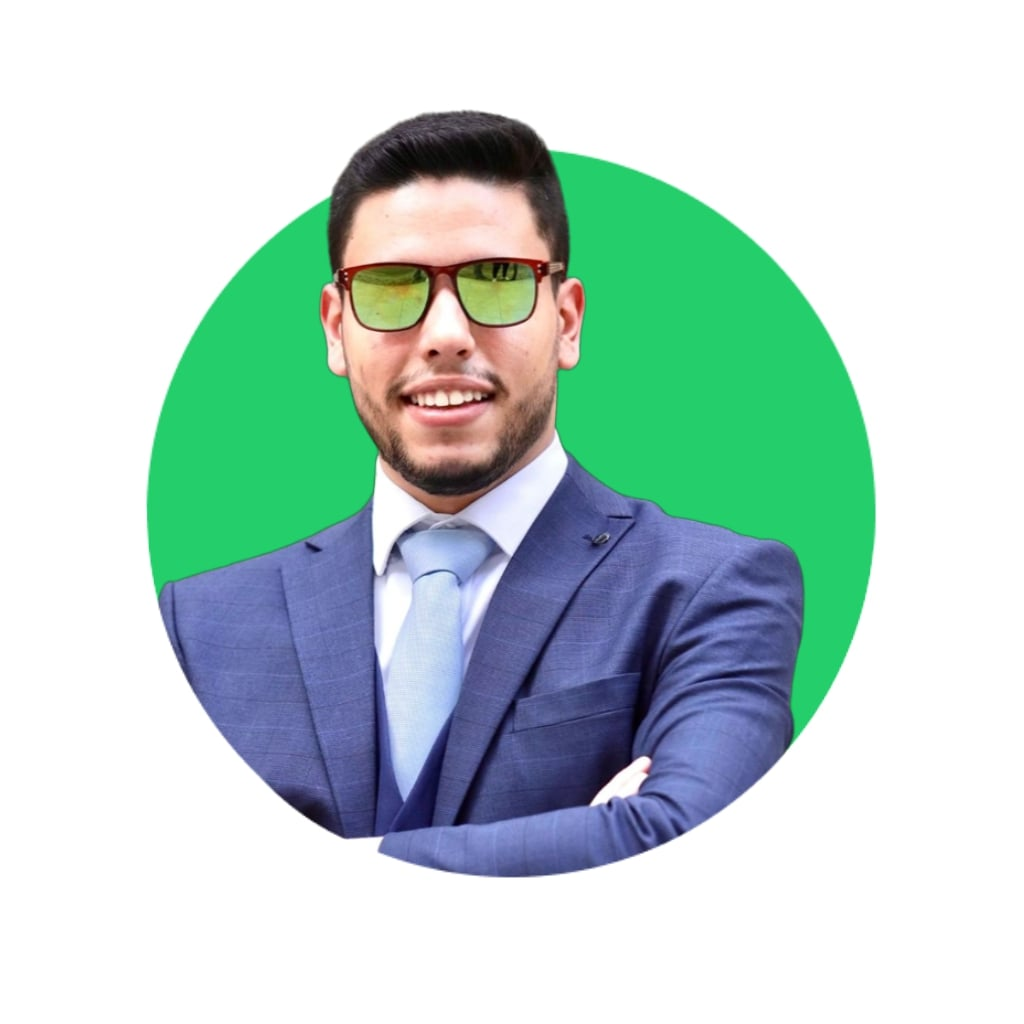
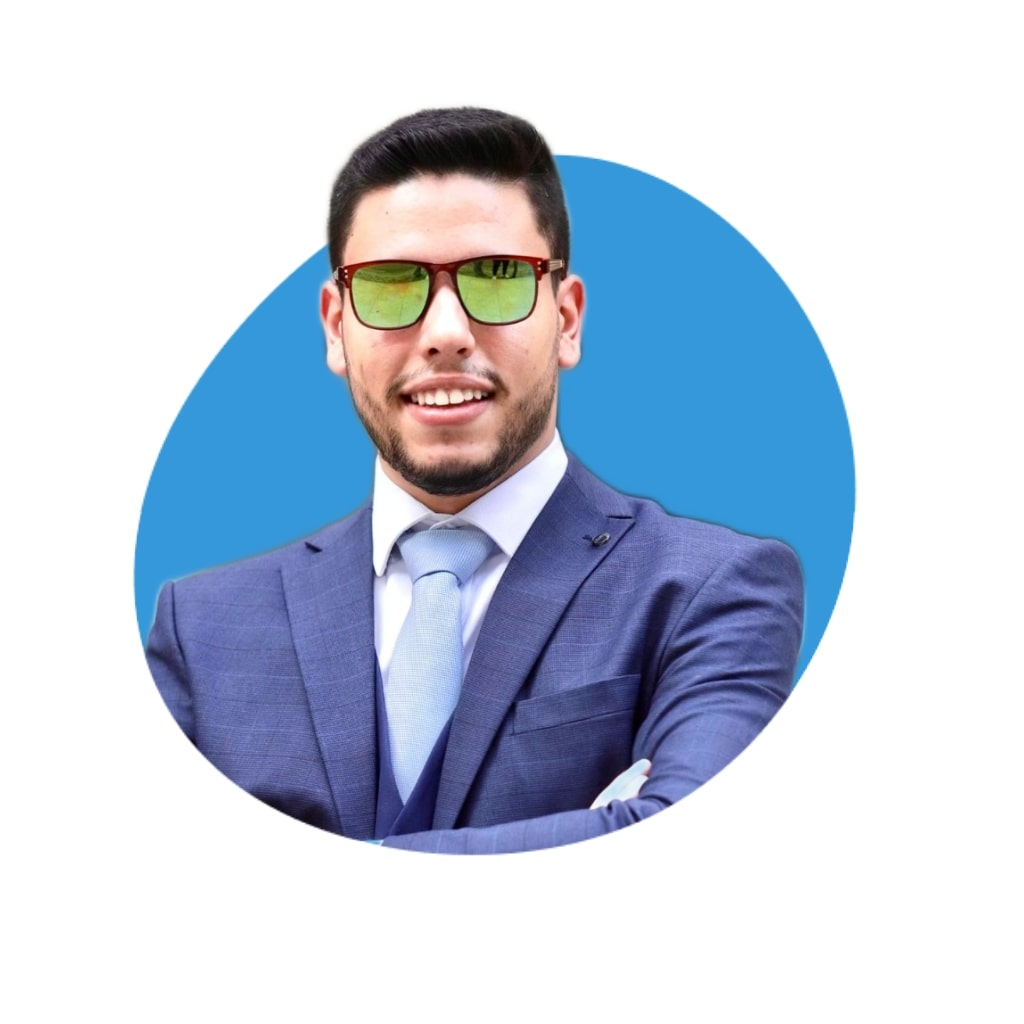
Update Assets and Styles for Consistent Branding

Changed region(s): [[0.125, 0.0938, 0.875, 0.875], [0.375, 0.75, 0.4062, 0.7812]]

diff --git a/src/components/Project/Project.tsx b/src/components/Project/Project.tsx
@@ -14,7 +14,7 @@ export function Project() {
         <ScrollAnimation animateIn="flipInX">
           <div className="project">
             <header>
-              <svg width="50" xmlns="http://www.w3.org/2000/svg" role="img" viewBox="0 0 24 24" fill="none" stroke="#23ce6b" strokeWidth="1" strokeLinecap="round" strokeLinejoin="round"> <title>Folder</title> <path d="M22 19a2 2 0 0 1-2 2H4a2 2 0 0 1-2-2V5a2 2 0 0 1 2-2h5l2 3h9a2 2 0 0 1 2 2z"></path> </svg>
+              <svg width="50" xmlns="http://www.w3.org/2000/svg" role="img" viewBox="0 0 24 24" fill="none" stroke="#3498db" strokeWidth="1" strokeLinecap="round" strokeLinejoin="round"> <title>Folder</title> <path d="M22 19a2 2 0 0 1-2 2H4a2 2 0 0 1-2-2V5a2 2 0 0 1 2-2h5l2 3h9a2 2 0 0 1 2 2z"></path> </svg>
               <div className="project-links">
                 <a href="https://github.com/CodeFaris/Serverless-Voting-Application" target="_blank" rel="noreferrer">
                   <img src={githubIcon} alt="Visit site" /></a>
@@ -33,7 +33,7 @@ export function Project() {
         <ScrollAnimation animateIn="flipInX">
           <div className="project">
             <header>
-              <svg width="50" xmlns="http://www.w3.org/2000/svg" role="img" viewBox="0 0 24 24" fill="none" stroke="#23ce6b " strokeWidth="1" strokeLinecap="round" strokeLinejoin="round"><title>Folder</title> <path d="M22 19a2 2 0 0 1-2 2H4a2 2 0 0 1-2-2V5a2 2 0 0 1 2-2h5l2 3h9a2 2 0 0 1 2 2z"></path> </svg>
+              <svg width="50" xmlns="http://www.w3.org/2000/svg" role="img" viewBox="0 0 24 24" fill="none" stroke="#3498db " strokeWidth="1" strokeLinecap="round" strokeLinejoin="round"><title>Folder</title> <path d="M22 19a2 2 0 0 1-2 2H4a2 2 0 0 1-2-2V5a2 2 0 0 1 2-2h5l2 3h9a2 2 0 0 1 2 2z"></path> </svg>
               <div className="project-links">
                 <a href="https://github.com/CodeFaris/AI-Chatbot-Assistant" target="_blank" rel="noreferrer">
                   <img src={githubIcon} alt="Visit site" /> </a>
@@ -60,7 +60,7 @@ export function Project() {
         <ScrollAnimation animateIn="flipInX">
           <div className="project">
             <header>
-              <svg width="50" xmlns="http://www.w3.org/2000/svg" role="img" viewBox="0 0 24 24" fill="none" stroke="#23ce6b" strokeWidth="1" strokeLinecap="round" strokeLinejoin="round">
+              <svg width="50" xmlns="http://www.w3.org/2000/svg" role="img" viewBox="0 0 24 24" fill="none" stroke="#3498db" strokeWidth="1" strokeLinecap="round" strokeLinejoin="round">
                 <title>Folder</title>
                 <path d="M22 19a2 2 0 0 1-2 2H4a2 2 0 0 1-2-2V5a2 2 0 0 1 2-2h5l2 3h9a2 2 0 0 1 2 2z"></path>
               </svg>
@@ -92,7 +92,7 @@ export function Project() {
         <ScrollAnimation animateIn="flipInX">
           <div className="project">
             <header>
-              <svg width="50" xmlns="http://www.w3.org/2000/svg" role="img" viewBox="0 0 24 24" fill="none" stroke="#23ce6b " stroke-width="1" stroke-linecap="round" stroke-linejoin="round" ><title>Folder</title><path d="M22 19a2 2 0 0 1-2 2H4a2 2 0 0 1-2-2V5a2 2 0 0 1 2-2h5l2 3h9a2 2 0 0 1 2 2z"></path></svg>
+              <svg width="50" xmlns="http://www.w3.org/2000/svg" role="img" viewBox="0 0 24 24" fill="none" stroke="#3498db " stroke-width="1" stroke-linecap="round" stroke-linejoin="round" ><title>Folder</title><path d="M22 19a2 2 0 0 1-2 2H4a2 2 0 0 1-2-2V5a2 2 0 0 1 2-2h5l2 3h9a2 2 0 0 1 2 2z"></path></svg>
               <div className="project-links">
                 <a href="https://github.com/CodeFaris/MediBook-Medical-Appointment-Scheduler-with-Health-History" target="_blank" rel="noreferrer">
                   <img src={githubIcon} alt="Visit site" />
@@ -120,7 +120,7 @@ export function Project() {
         <ScrollAnimation animateIn="flipInX">
           <div className="project">
             <header>
-              <svg width="50" xmlns="http://www.w3.org/2000/svg" role="img" viewBox="0 0 24 24" fill="none" stroke="#23ce6b" strokeWidth="1" strokeLinecap="round" strokeLinejoin="round">
+              <svg width="50" xmlns="http://www.w3.org/2000/svg" role="img" viewBox="0 0 24 24" fill="none" stroke="#3498db" strokeWidth="1" strokeLinecap="round" strokeLinejoin="round">
                 <title>Code</title>
                 <path d="M22 19a2 2 0 0 1-2 2H4a2 2 0 0 1-2-2V5a2 2 0 0 1 2-2h5l2 3h9a2 2 0 0 1 2 2z"></path>
               </svg>
@@ -150,7 +150,7 @@ export function Project() {
         <ScrollAnimation animateIn="flipInX">
           <div className="project">
             <header>
-              <svg width="50" xmlns="http://www.w3.org/2000/svg" role="img" viewBox="0 0 24 24" fill="none" stroke="#23ce6b " stroke-width="1" stroke-linecap="round" stroke-linejoin="round" ><title>Folder</title><path d="M22 19a2 2 0 0 1-2 2H4a2 2 0 0 1-2-2V5a2 2 0 0 1 2-2h5l2 3h9a2 2 0 0 1 2 2z"></path></svg>
+              <svg width="50" xmlns="http://www.w3.org/2000/svg" role="img" viewBox="0 0 24 24" fill="none" stroke="#3498db " stroke-width="1" stroke-linecap="round" stroke-linejoin="round" ><title>Folder</title><path d="M22 19a2 2 0 0 1-2 2H4a2 2 0 0 1-2-2V5a2 2 0 0 1 2-2h5l2 3h9a2 2 0 0 1 2 2z"></path></svg>
               <div className="project-links">
                 <a href="https://velocityai.FarisAljohari.com/" target="_blank" rel="noreferrer">
                   <img src={externalLink} alt="Visit site" />
@@ -177,7 +177,7 @@ export function Project() {
         {/* <ScrollAnimation animateIn="flipInX">
           <div className="project">
             <header>
-              <svg width="50" xmlns="http://www.w3.org/2000/svg" role="img" viewBox="0 0 24 24" fill="none" stroke="#23ce6b " stroke-width="1" stroke-linecap="round" stroke-linejoin="round" ><title>Folder</title><path d="M22 19a2 2 0 0 1-2 2H4a2 2 0 0 1-2-2V5a2 2 0 0 1 2-2h5l2 3h9a2 2 0 0 1 2 2z"></path></svg>
+              <svg width="50" xmlns="http://www.w3.org/2000/svg" role="img" viewBox="0 0 24 24" fill="none" stroke="#3498db " stroke-width="1" stroke-linecap="round" stroke-linejoin="round" ><title>Folder</title><path d="M22 19a2 2 0 0 1-2 2H4a2 2 0 0 1-2-2V5a2 2 0 0 1 2-2h5l2 3h9a2 2 0 0 1 2 2z"></path></svg>
               <div className="project-links">
                 <a href="https://justmedicalbooks.com/" target="_blank" rel="noreferrer">
                   <img src={externalLink} alt="Visit site" />
@@ -202,7 +202,7 @@ export function Project() {
         {/* <ScrollAnimation animateIn="flipInX">
           <div className="project">
             <header>
-              <svg width="50" xmlns="http://www.w3.org/2000/svg" role="img" viewBox="0 0 24 24" fill="none" stroke="#23ce6b " stroke-width="1" stroke-linecap="round" stroke-linejoin="round" ><title>Folder</title><path d="M22 19a2 2 0 0 1-2 2H4a2 2 0 0 1-2-2V5a2 2 0 0 1 2-2h5l2 3h9a2 2 0 0 1 2 2z"></path></svg>
+              <svg width="50" xmlns="http://www.w3.org/2000/svg" role="img" viewBox="0 0 24 24" fill="none" stroke="#3498db " stroke-width="1" stroke-linecap="round" stroke-linejoin="round" ><title>Folder</title><path d="M22 19a2 2 0 0 1-2 2H4a2 2 0 0 1-2-2V5a2 2 0 0 1 2-2h5l2 3h9a2 2 0 0 1 2 2z"></path></svg>
               <div className="project-links">
                 <a href="https://drrohitdamor.com" target="_blank" rel="noreferrer">
                   <img src={externalLink} alt="Visit site" />
@@ -226,7 +226,7 @@ export function Project() {
         {/* <ScrollAnimation animateIn="flipInX">
           <div className="project">
             <header>
-              <svg width="50" xmlns="http://www.w3.org/2000/svg" role="img" viewBox="0 0 24 24" fill="none" stroke="#23ce6b " stroke-width="1" stroke-linecap="round" stroke-linejoin="round" ><title>Folder</title><path d="M22 19a2 2 0 0 1-2 2H4a2 2 0 0 1-2-2V5a2 2 0 0 1 2-2h5l2 3h9a2 2 0 0 1 2 2z"></path></svg>
+              <svg width="50" xmlns="http://www.w3.org/2000/svg" role="img" viewBox="0 0 24 24" fill="none" stroke="#3498db " stroke-width="1" stroke-linecap="round" stroke-linejoin="round" ><title>Folder</title><path d="M22 19a2 2 0 0 1-2 2H4a2 2 0 0 1-2-2V5a2 2 0 0 1 2-2h5l2 3h9a2 2 0 0 1 2 2z"></path></svg>
               <div className="project-links">
                 <a href="https://mitulindustries.com/" target="_blank" rel="noreferrer">
                   <img src={externalLink} alt="Visit site" />
@@ -251,7 +251,7 @@ export function Project() {
         <ScrollAnimation animateIn="flipInX">
           <div className="project">
             <header>
-              <svg width="50" xmlns="http://www.w3.org/2000/svg" role="img" viewBox="0 0 24 24" fill="none" stroke="#23ce6b " stroke-width="1" stroke-linecap="round" stroke-linejoin="round" ><title>Folder</title><path d="M22 19a2 2 0 0 1-2 2H4a2 2 0 0 1-2-2V5a2 2 0 0 1 2-2h5l2 3h9a2 2 0 0 1 2 2z"></path></svg>
+              <svg width="50" xmlns="http://www.w3.org/2000/svg" role="img" viewBox="0 0 24 24" fill="none" stroke="#3498db " stroke-width="1" stroke-linecap="round" stroke-linejoin="round" ><title>Folder</title><path d="M22 19a2 2 0 0 1-2 2H4a2 2 0 0 1-2-2V5a2 2 0 0 1 2-2h5l2 3h9a2 2 0 0 1 2 2z"></path></svg>
               <div className="project-links">
                 <a href="https://mayatmaj.com/" target="_blank" rel="noreferrer">
                   <img src={externalLink} alt="Visit site" />
@@ -275,7 +275,7 @@ export function Project() {
         {/* <ScrollAnimation animateIn="flipInX">
           <div className="project">
             <header>
-              <svg width="50" xmlns="http://www.w3.org/2000/svg" role="img" viewBox="0 0 24 24" fill="none" stroke="#23ce6b " stroke-width="1" stroke-linecap="round" stroke-linejoin="round" ><title>Folder</title><path d="M22 19a2 2 0 0 1-2 2H4a2 2 0 0 1-2-2V5a2 2 0 0 1 2-2h5l2 3h9a2 2 0 0 1 2 2z"></path></svg>
+              <svg width="50" xmlns="http://www.w3.org/2000/svg" role="img" viewBox="0 0 24 24" fill="none" stroke="#3498db " stroke-width="1" stroke-linecap="round" stroke-linejoin="round" ><title>Folder</title><path d="M22 19a2 2 0 0 1-2 2H4a2 2 0 0 1-2-2V5a2 2 0 0 1 2-2h5l2 3h9a2 2 0 0 1 2 2z"></path></svg>
               <div className="project-links">
                 <a href="https://www.smartcornersproperties.com/" target="_blank" rel="noreferrer">
                   <img src={externalLink} alt="Visit site" />
@@ -299,7 +299,7 @@ export function Project() {
         {/* <ScrollAnimation animateIn="flipInX">
           <div className="project">
             <header>
-              <svg width="50" xmlns="http://www.w3.org/2000/svg" role="img" viewBox="0 0 24 24" fill="none" stroke="#23ce6b " stroke-width="1" stroke-linecap="round" stroke-linejoin="round" ><title>Folder</title><path d="M22 19a2 2 0 0 1-2 2H4a2 2 0 0 1-2-2V5a2 2 0 0 1 2-2h5l2 3h9a2 2 0 0 1 2 2z"></path></svg>
+              <svg width="50" xmlns="http://www.w3.org/2000/svg" role="img" viewBox="0 0 24 24" fill="none" stroke="#3498db " stroke-width="1" stroke-linecap="round" stroke-linejoin="round" ><title>Folder</title><path d="M22 19a2 2 0 0 1-2 2H4a2 2 0 0 1-2-2V5a2 2 0 0 1 2-2h5l2 3h9a2 2 0 0 1 2 2z"></path></svg>
               <div className="project-links">
                 <a href="https://madewithluv.in/" target="_blank" rel="noreferrer">
                   <img src={externalLink} alt="Visit site" />

diff --git a/src/components/Hero/Hero.tsx b/src/components/Hero/Hero.tsx
@@ -1,7 +1,7 @@
 import { BrowserRouter } from "react-router-dom"
 import { Container } from "./styles"
 import ScrollAnimation from 'react-animate-on-scroll';
-import Illustration from "../../assets/illustration.svg"
+import Illustration from "../../assets/illustration.png"
 import { NavHashLink } from "react-router-hash-link"
 import linkedin from '../../assets/linkedin.svg'
 import githubIcon from '../../assets/github.svg'
@@ -62,7 +62,7 @@ export function Hero() {
       </div>
       <div className="hero-image">
         <ScrollAnimation animateIn="fadeInRight" delay={1 * 1000}>
-          <img src={Illustration} alt="Ilustração" />
+          <img src={Illustration} alt="Illustration" width={"100%"} height={"100%"}/>
         </ScrollAnimation>
       </div>
     </Container>

diff --git a/public/index.html b/public/index.html
@@ -2,7 +2,7 @@
 <html lang="en">
 
 <head>
-    <link rel="icon" href="Images/favicon.png" />
+    <link rel="icon" href="Images/favicon.ico" />
     <link href="https://fonts.googleapis.com/css2?family=Red+Hat+Display:wght@400;500;700&display=swap" rel="stylesheet">
     <link rel="preconnect" href="https://fonts.googleapis.com">
     <link rel="preconnect" href="https://fonts.gstatic.com" crossorigin>

diff --git a/src/styles/global.ts b/src/styles/global.ts
@@ -4,7 +4,7 @@ export const GlobalStyle = createGlobalStyle`
   :root{
     --gray: #616a6b;
     --black: #212121;
-    --green: #23ce6b;
+    --green: #3498db;
     --blue: #016fb9;
     scroll-padding-top: 10rem;
 
